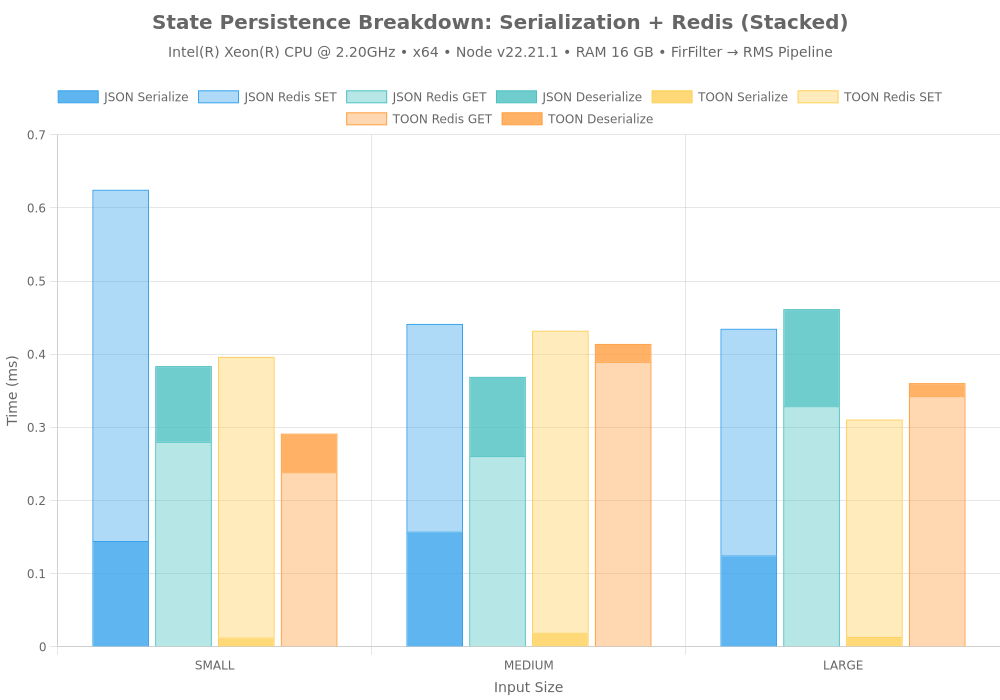
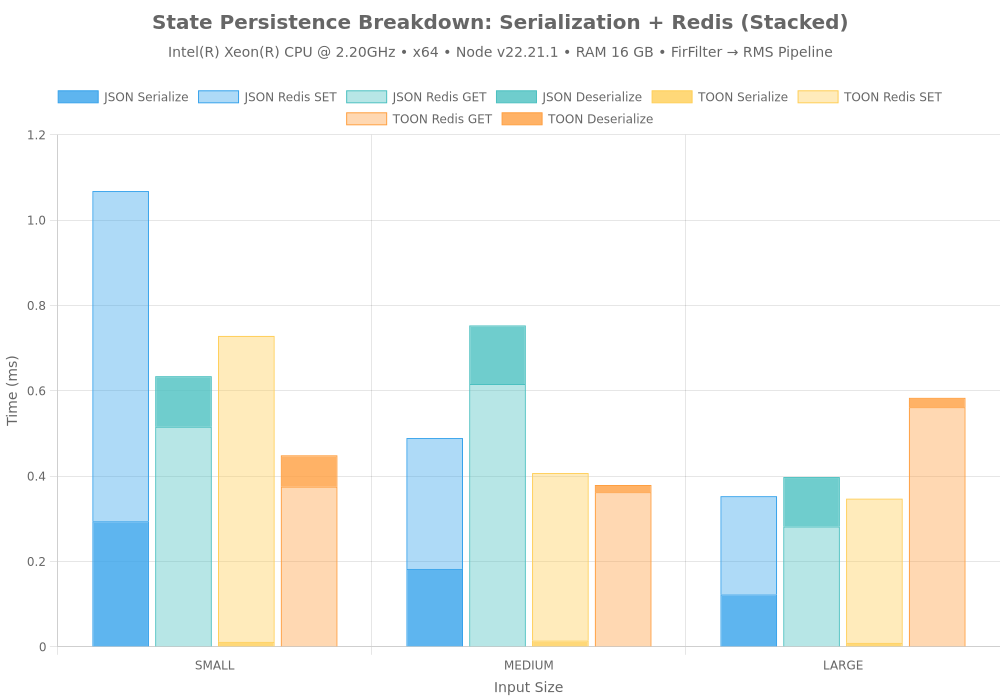
intel xeon persistence updated

diff --git a/reports/BENCHMARKS-intel-xeon-cpu-220ghz.md b/reports/BENCHMARKS-intel-xeon-cpu-220ghz.md
@@ -196,31 +196,31 @@ Testing pipeline state serialization for crash recovery (FirFilter → RMS pipel
 
 | Input Size | Format | Serialize | Redis SET | Redis GET | Deserialize | Total Save | Total Load | State Size | Seamless |
 |------------|--------|-----------|-----------|-----------|-------------|------------|------------|------------|----------|
-| SMALL | JSON | 0.145 | 0.480 | 0.280 | 0.103 | 0.625 | 0.384 | 5.88 KB | ✅ |
-| SMALL | TOON | 0.013 | 0.384 | 0.239 | 0.053 | 0.396 | 0.291 | 1.65 KB | ✅ |
-| MEDIUM | JSON | 0.158 | 0.284 | 0.261 | 0.108 | 0.441 | 0.369 | 5.90 KB | ✅ |
-| MEDIUM | TOON | 0.019 | 0.413 | 0.390 | 0.025 | 0.432 | 0.414 | 1.65 KB | ✅ |
-| LARGE | JSON | 0.125 | 0.310 | 0.329 | 0.133 | 0.435 | 0.462 | 5.80 KB | ✅ |
-| LARGE | TOON | 0.013 | 0.297 | 0.343 | 0.018 | 0.311 | 0.360 | 1.65 KB | ✅ |
+| SMALL | JSON | 0.294 | 0.774 | 0.516 | 0.119 | 1.068 | 0.634 | 5.88 KB | ✅ |
+| SMALL | TOON | 0.011 | 0.717 | 0.375 | 0.074 | 0.729 | 0.449 | 1.65 KB | ✅ |
+| MEDIUM | JSON | 0.182 | 0.307 | 0.616 | 0.137 | 0.489 | 0.753 | 5.90 KB | ✅ |
+| MEDIUM | TOON | 0.015 | 0.393 | 0.362 | 0.017 | 0.407 | 0.379 | 1.65 KB | ✅ |
+| LARGE | JSON | 0.123 | 0.230 | 0.282 | 0.116 | 0.353 | 0.398 | 5.80 KB | ✅ |
+| LARGE | TOON | 0.009 | 0.338 | 0.562 | 0.022 | 0.347 | 0.584 | 1.65 KB | ✅ |
 
 **Performance Metrics:**
 
 **JSON Format:**
-- Serialization time: **0.142 ms**
-- Deserialization time: **0.115 ms**
-- Redis SET time: **0.358 ms**
-- Redis GET time: **0.290 ms**
-- **Total save time: 0.500 ms**
-- **Total load time: 0.405 ms**
+- Serialization time: **0.200 ms**
+- Deserialization time: **0.124 ms**
+- Redis SET time: **0.437 ms**
+- Redis GET time: **0.471 ms**
+- **Total save time: 0.637 ms**
+- **Total load time: 0.595 ms**
 - State size: **5.86 KB**
 
 **TOON Format:**
-- Serialization time: **0.015 ms**
-- Deserialization time: **0.032 ms**
-- Redis SET time: **0.365 ms**
-- Redis GET time: **0.324 ms**
-- **Total save time: 0.380 ms**
-- **Total load time: 0.355 ms**
+- Serialization time: **0.012 ms**
+- Deserialization time: **0.037 ms**
+- Redis SET time: **0.483 ms**
+- Redis GET time: **0.433 ms**
+- **Total save time: 0.494 ms**
+- **Total load time: 0.470 ms**
 - State size: **1.65 KB**
 
 **Overall:**
@@ -579,5 +579,5 @@ Measuring safety margin between processing time and buffer duration:
 ---
 
 **Generated by:** dspx benchmark suite v1.0  
-**Date:** 2026-01-29T12:46:34.111Z  
+**Date:** 2026-01-29T12:51:02.476Z  
 **Runtime:** Node.js v22.21.1
